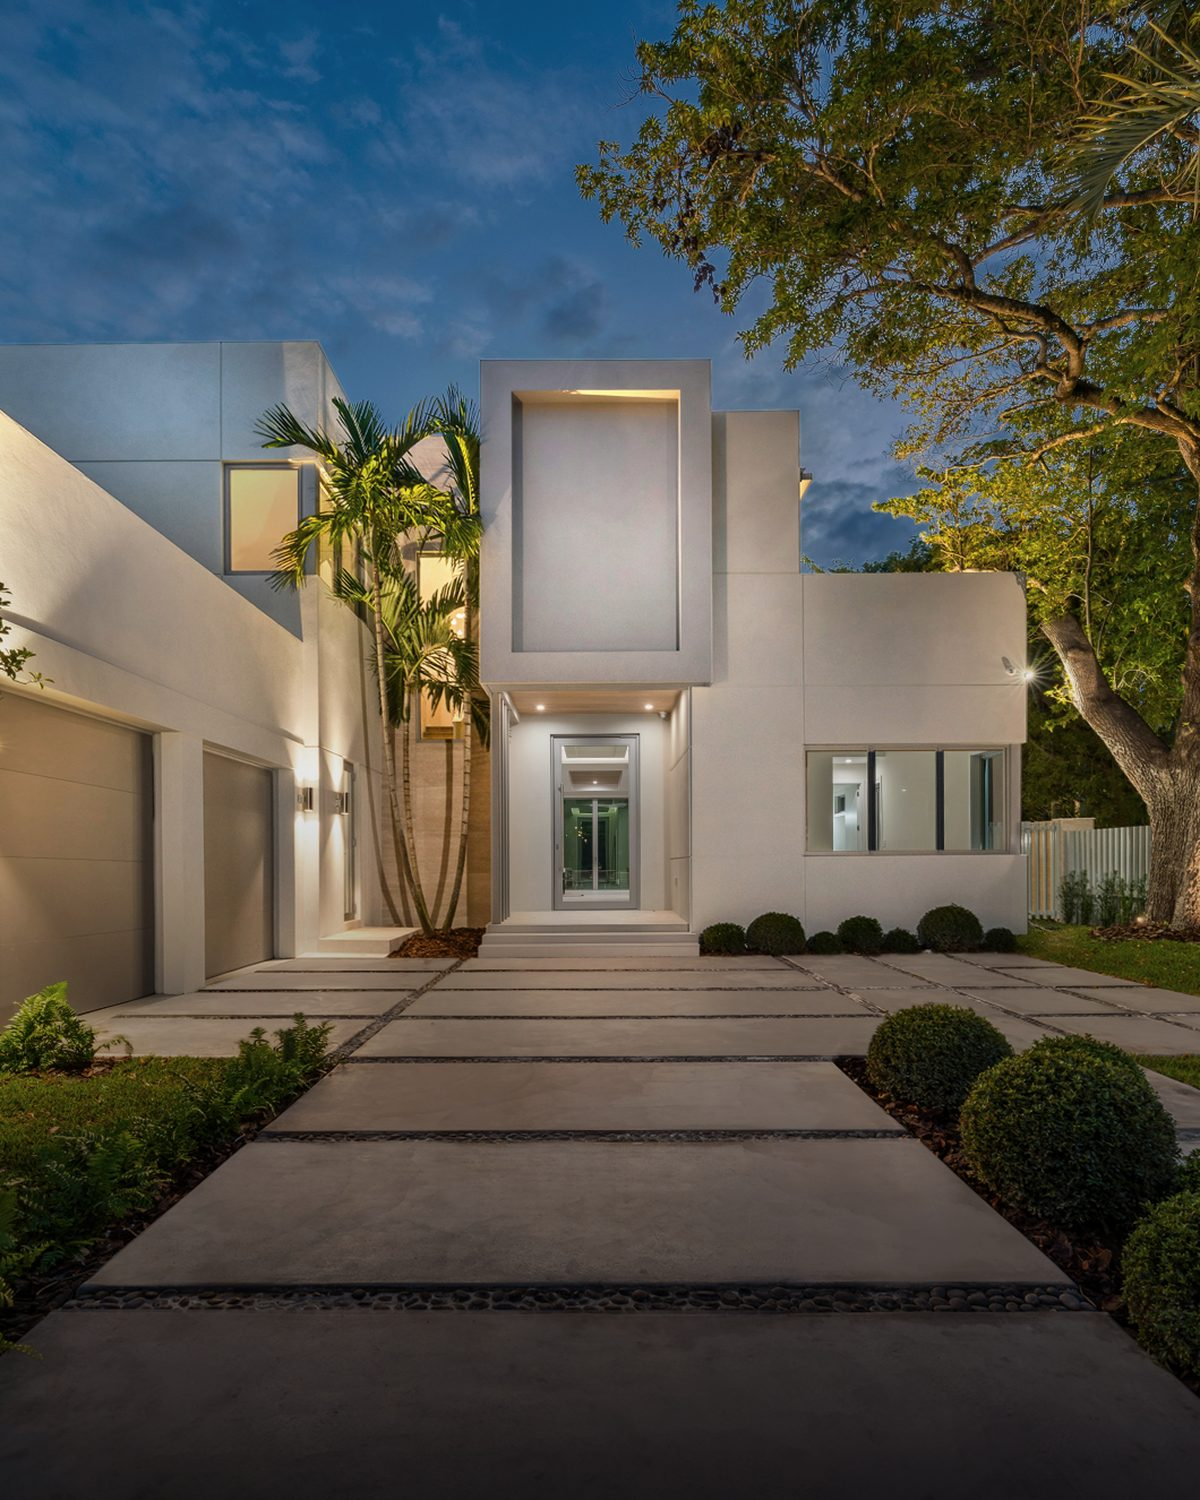
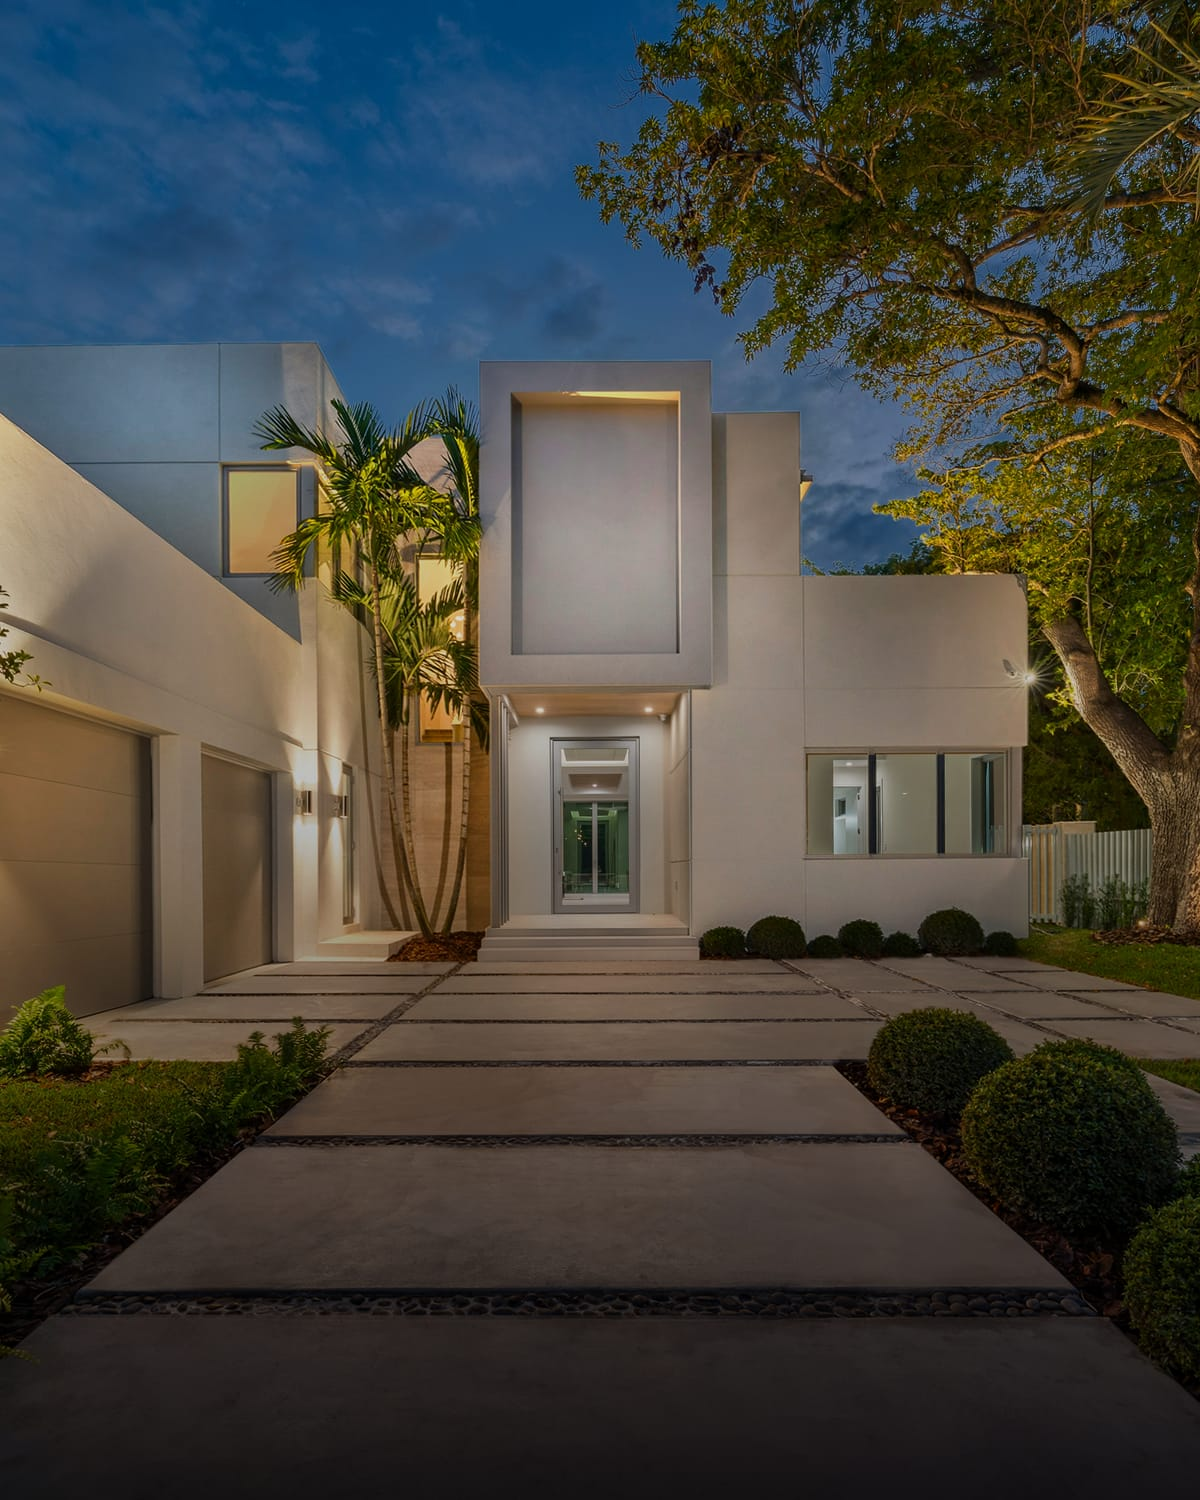
Escurece a foto da hero e tira a varredura da manchete
A manchete reprovava em contraste e o A2 tinha parado esperando decisao. A
causa medida nao era a base escura da foto: era a PAREDE CLARA da garagem,
no meio do quadro, onde a rampa da base nao chega.

1. scripts/trata-foto-hero.mjs (novo), no molde do trata-foto-cta.mjs: gera
   hero-wide 16:9 e hero-tall 4:5 a partir do original de 7952x5304, que
   fica FORA do repositorio. Ele recorta (numeros de um alinhamento medido
   contra os arquivos que ja estavam no site), repoe a rampa da base que ja
   existia — medida linha a linha em espaco de alfa, alfa(y) = 0,64 ou 0,66
   vezes ((y-y0)/(1-y0))^1,2 — e soma um VEU UNIFORME de 0,16 sobre a foto
   inteira. Uniforme porque rampa nao resolve meio de foto.

   Conferido: com veu 0, o script reproduz os arquivos atuais com erro medio
   de 6 niveis em 255, que e recompressao.

2. A varredura dourada do DiaText SAI da manchete, que fica bone chapado.

MEDIDO em pixel composto, por caixa de linha real (Range), nas 7 larguras:

  bone em repouso, limite 3:1
    antes  3,62 3,62 3,61 3,47 3,35 2,89 3,76   (reprovava a 1440)
    depois 4,80 4,80 4,79 4,79 4,66 4,05 5,15   (passa nas sete)

  varredura, pior fatia com o glifo ja pintado, ~100 quadros dos 3,4s
    com veu 0,16 e a paleta cheia ....... 1,12 a 2,08:1
    com veu 0,16 e so o tom mais claro .. 1,98:1

Para a banda fechar 3:1 a foto precisaria de veu ~0,28 (so #D4B872) ou ~0,41
(dourado cheio), contra os 0,16 que o texto em repouso pede: isso apagaria a
[…]

diff --git a/components/hero.tsx b/components/hero.tsx
@@ -5,7 +5,6 @@ import { BotaoContato } from "@/components/ui/botao-contato";
 import { ROTA_CONTATO } from "@/lib/rotas";
 import { LogoTopo } from "@/components/logo-topo";
 import { SociaisHero } from "@/components/sociais-hero";
-import { DiaText } from "@/components/ui/dia-text";
 
 /**
  * BLOCO 1 — Hero
@@ -36,10 +35,14 @@ export function Hero() {
           <source media> escolhe o enquadramento. A larga (16:9) entra de
           768px para cima; a alta (4:5) é o padrão do mobile.
 
-          O tratamento está GRAVADO NOS ARQUIVOS, não em CSS: escurecimento na
-          base, sem véu no topo porque o céu de crepúsculo já dá contraste.
+          O tratamento está GRAVADO NOS ARQUIVOS, não em CSS, e agora tem
+          script: scripts/trata-foto-hero.mjs, a partir do original de
+          7952x5304 que mora FORA do repositório. São duas camadas — a rampa
+          da base, que já existia, e um véu UNIFORME de 0,16 sobre a foto
+          inteira, acrescentado nesta rodada porque o que reprovava não era a
+          base: era a parede clara da garagem, no meio do quadro.
           NÃO acrescentar gradiente, overlay ou filter por CSS. Se a foto for
-          trocada, refaça o tratamento no arquivo e remeça o contraste. */}
+          trocada, rode o script de novo e remeça o contraste. */}
       <picture>
         <source media="(min-width: 768px)" srcSet={larga} />
         <img
@@ -59,29 +62,32 @@ export function Hero() {
       </div>
 
       <div className="absolute inset-x-0 bottom-0 flex flex-col gap-12 p-8 lg:flex-row lg:items-end lg:justify-between">
-        {/* Uma instância de DiaText por linha. A varredura acontece uma vez,
-            na entrada: triggerOnView com once e sem repeat — nada de loop na
-            hero. As cores são o dourado da marca; o texto em repouso é bone.
+        {/* ⚠ A MANCHETE É BONE CHAPADO, SEM VARREDURA, E ISSO FOI MEDIDO.
+            Aqui havia uma instância de DiaText por linha, com uma banda
+            dourada varrendo o texto na entrada. A banda pinta o glifo de
+            #B79653, #D4B872 e #8A6D2F, e nenhum dos três se sustenta sobre
+            esta foto: medido em pixel composto, por caixa de linha, no pior
+            quadro de ~100 amostrados dos 3,4s, a pior fatia ficava entre
+            1,12 e 2,08:1 contra os 3:1 de texto grande. Com a paleta cortada
+            só ao tom mais claro, 1,98:1. O que decide não é a base escura da
+            foto: é a PAREDE CLARA da garagem, no meio do quadro — dourado
+            sobre claro.
 
-            Ritmo: 3,4s por linha em vez do padrão de 1,5s, e 0,35s de defasagem
-            entre linhas em vez de 0,12s. A varredura estava rápida demais para
-            ser lida como gesto. */}
-        {/* Os três degraus da manchete são 18% maiores que a escala geral do
+            Para a banda passar, a foto teria de escurecer até um véu de ~0,28
+            (só #D4B872) ou ~0,41 (dourado cheio), contra os 0,16 que o texto
+            em repouso pede. Isso apagaria a fachada, que é o assunto. A
+            varredura é decorativa; a manchete ser lida não é.
+
+            components/ui/dia-text.tsx continua no repositório, sem uso: se a
+            foto da hero mudar, remeça antes de trazer a banda de volta.
+
+            Os três degraus da manchete são 18% maiores que a escala geral do
             site: text-hero-sm / md / lg, e não heading-sm / heading / display.
             Ver os tokens em app/globals.css e o registro em lib/utils.ts. */}
         <h1 className="text-hero-sm leading-none text-bone md:text-hero-md xl:text-hero-lg">
-          {hero.manchete.map((linha, indice) => (
+          {hero.manchete.map((linha) => (
             <span key={linha} className="block">
-              <DiaText
-                text={linha}
-                colors={["#B79653", "#D4B872", "#8A6D2F", "#B79653"]}
-                textColor="#FAF8F2"
-                triggerOnView
-                once
-                repeat={false}
-                duration={3.4}
-                delay={indice * 0.35}
-              />
+              {linha}
             </span>
           ))}
         </h1>

diff --git a/DESIGN.md b/DESIGN.md
@@ -561,3 +561,42 @@ começa é o rótulo acima e o anel de foco em bone, medido em 18,64:1.
 A borda do campo existe o tempo todo, transparente em repouso, e só ganha cor
 no erro — assim a validação não muda o tamanho da caixa. Nenhum elemento do
 formulário usa `box-shadow`.
+
+### 8. Tratamento novo da foto da hero, e a varredura que saiu dela
+
+**A regra:** a manchete da hero é texto grande sobre foto, e texto grande pede
+3:1 de contraste. O AGENTS.md proíbe overlay, gradiente e filter por CSS sobre
+foto: o contraste se resolve no arquivo.
+
+**O que mudou:** a foto da hero ganhou um **véu uniforme de 0,16** por cima da
+rampa da base que já existia, gravado no arquivo por
+`scripts/trata-foto-hero.mjs` a partir do original de 7952×5304 (que mora fora
+do repositório). E a **varredura dourada do DiaText saiu da manchete**, que
+passou a ser bone chapado.
+
+**Por que o véu é uniforme e não uma rampa maior:** o que reprovava não era a
+base escura. Medido em pixel composto, por caixa de linha real, o pior ponto
+era a **parede clara da garagem, no meio do quadro**, onde a rampa não chega:
+o bone dava **2,89:1 a 1440px**. Rampa não resolve meio de foto.
+
+**Medido depois, bone em repouso, nas 7 larguras** (limite 3:1, fonte de 40 a
+99px, sempre texto grande):
+
+| largura | 360 | 390 | 414 | 768 | 992 | 1440 | 1920 |
+|---|---|---|---|---|---|---|---|
+| pior fatia | 4,80 | 4,80 | 4,79 | 4,79 | 4,66 | 4,05 | 5,15 |
+
+**Por que a varredura saiu.** A banda pintava o glifo de #B79653, #D4B872 e
+#8A6D2F. Amostrando ~100 quadros dos 3,4s por largura e medindo só as fatias
+com o glifo já pintado (a borda de fade passa por 1:1 em qualquer revelação, e
+não conta), a pior fatia ficava em **1,12 a 2,08:1** já com o véu de 0,16 — e
+em **1,98:1** com a paleta cortada só ao tom mais claro. O par frágil é
+**dourado sobre a parede clara**, não o dourado sobre a base escura.
+
+Para a banda fechar 3:1 a foto teria de ir a um véu de **~0,28** (só #D4B872)
+ou **~0,41** (dourado cheio), contra os 0,16 que o texto em repouso pede — o
+que apaga a fachada, que é o assunto da foto. A varredura é decorativa; a
+manchete ser lida não é. Nessa ordem.
+
+`components/ui/dia-text.tsx` fica no repositório sem uso. Trocou a foto da
+hero: rode o script, remeça as duas tabelas e só então decida se a banda volta.
